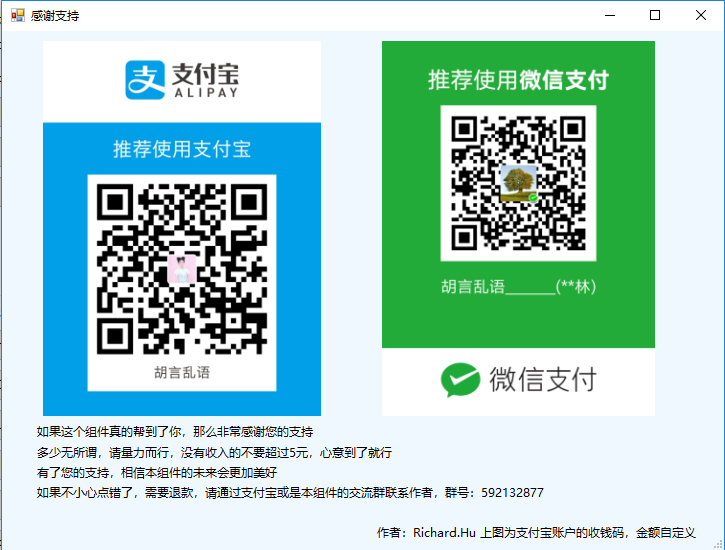
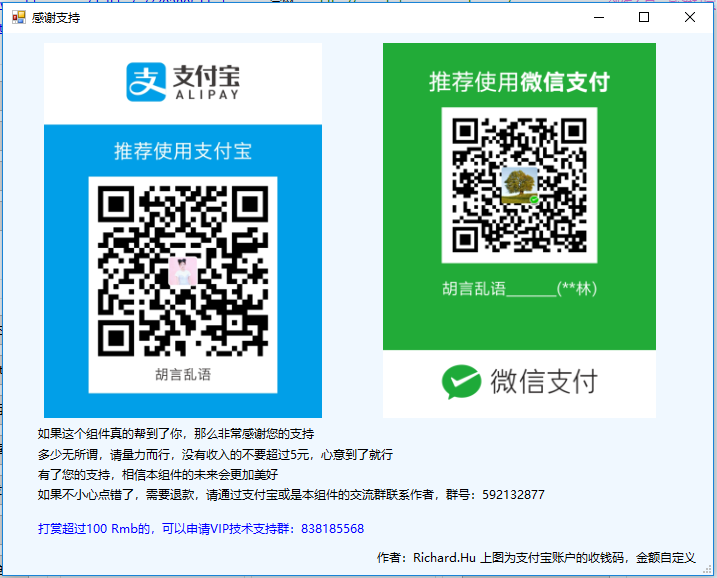
feat(support): 新增一个VIP技术支持群，针对打赏金额较多的老铁创建。

diff --git a/HslCommunication_Net45/BasicFramework/FormSupport.Designer.cs b/HslCommunication_Net45/BasicFramework/FormSupport.Designer.cs
@@ -35,6 +35,7 @@
             this.label5 = new System.Windows.Forms.Label();
             this.pictureBox2 = new System.Windows.Forms.PictureBox();
             this.pictureBox1 = new System.Windows.Forms.PictureBox();
+            this.label6 = new System.Windows.Forms.Label();
             ((System.ComponentModel.ISupportInitialize)(this.pictureBox2)).BeginInit();
             ((System.ComponentModel.ISupportInitialize)(this.pictureBox1)).BeginInit();
             this.SuspendLayout();
@@ -69,7 +70,7 @@
             // label4
             // 
             this.label4.AutoSize = true;
-            this.label4.Location = new System.Drawing.Point(372, 493);
+            this.label4.Location = new System.Drawing.Point(371, 516);
             this.label4.Name = "label4";
             this.label4.Size = new System.Drawing.Size(327, 17);
             this.label4.TabIndex = 4;
@@ -105,12 +106,23 @@
             this.pictureBox1.TabIndex = 0;
             this.pictureBox1.TabStop = false;
             // 
+            // label6
+            // 
+            this.label6.AutoSize = true;
+            this.label6.ForeColor = System.Drawing.Color.Blue;
+            this.label6.Location = new System.Drawing.Point(32, 487);
+            this.label6.Name = "label6";
+            this.label6.Size = new System.Drawing.Size(334, 17);
+            this.label6.TabIndex = 7;
+            this.label6.Text = "打赏超过100 Rmb的，可以申请VIP技术支持群：838185568";
+            // 
             // FormSupport
             // 
             this.AutoScaleDimensions = new System.Drawing.SizeF(7F, 17F);
             this.AutoScaleMode = System.Windows.Forms.AutoScaleMode.Font;
             this.BackColor = System.Drawing.Color.AliceBlue;
-            this.ClientSize = new System.Drawing.Size(722, 519);
+            this.ClientSize = new System.Drawing.Size(710, 542);
+            this.Controls.Add(this.label6);
             this.Controls.Add(this.pictureBox2);
             this.Controls.Add(this.label5);
             this.Controls.Add(this.label4);
@@ -139,5 +151,6 @@
         private System.Windows.Forms.Label label4;
         private System.Windows.Forms.Label label5;
         private System.Windows.Forms.PictureBox pictureBox2;
+        private System.Windows.Forms.Label label6;
     }
 }
